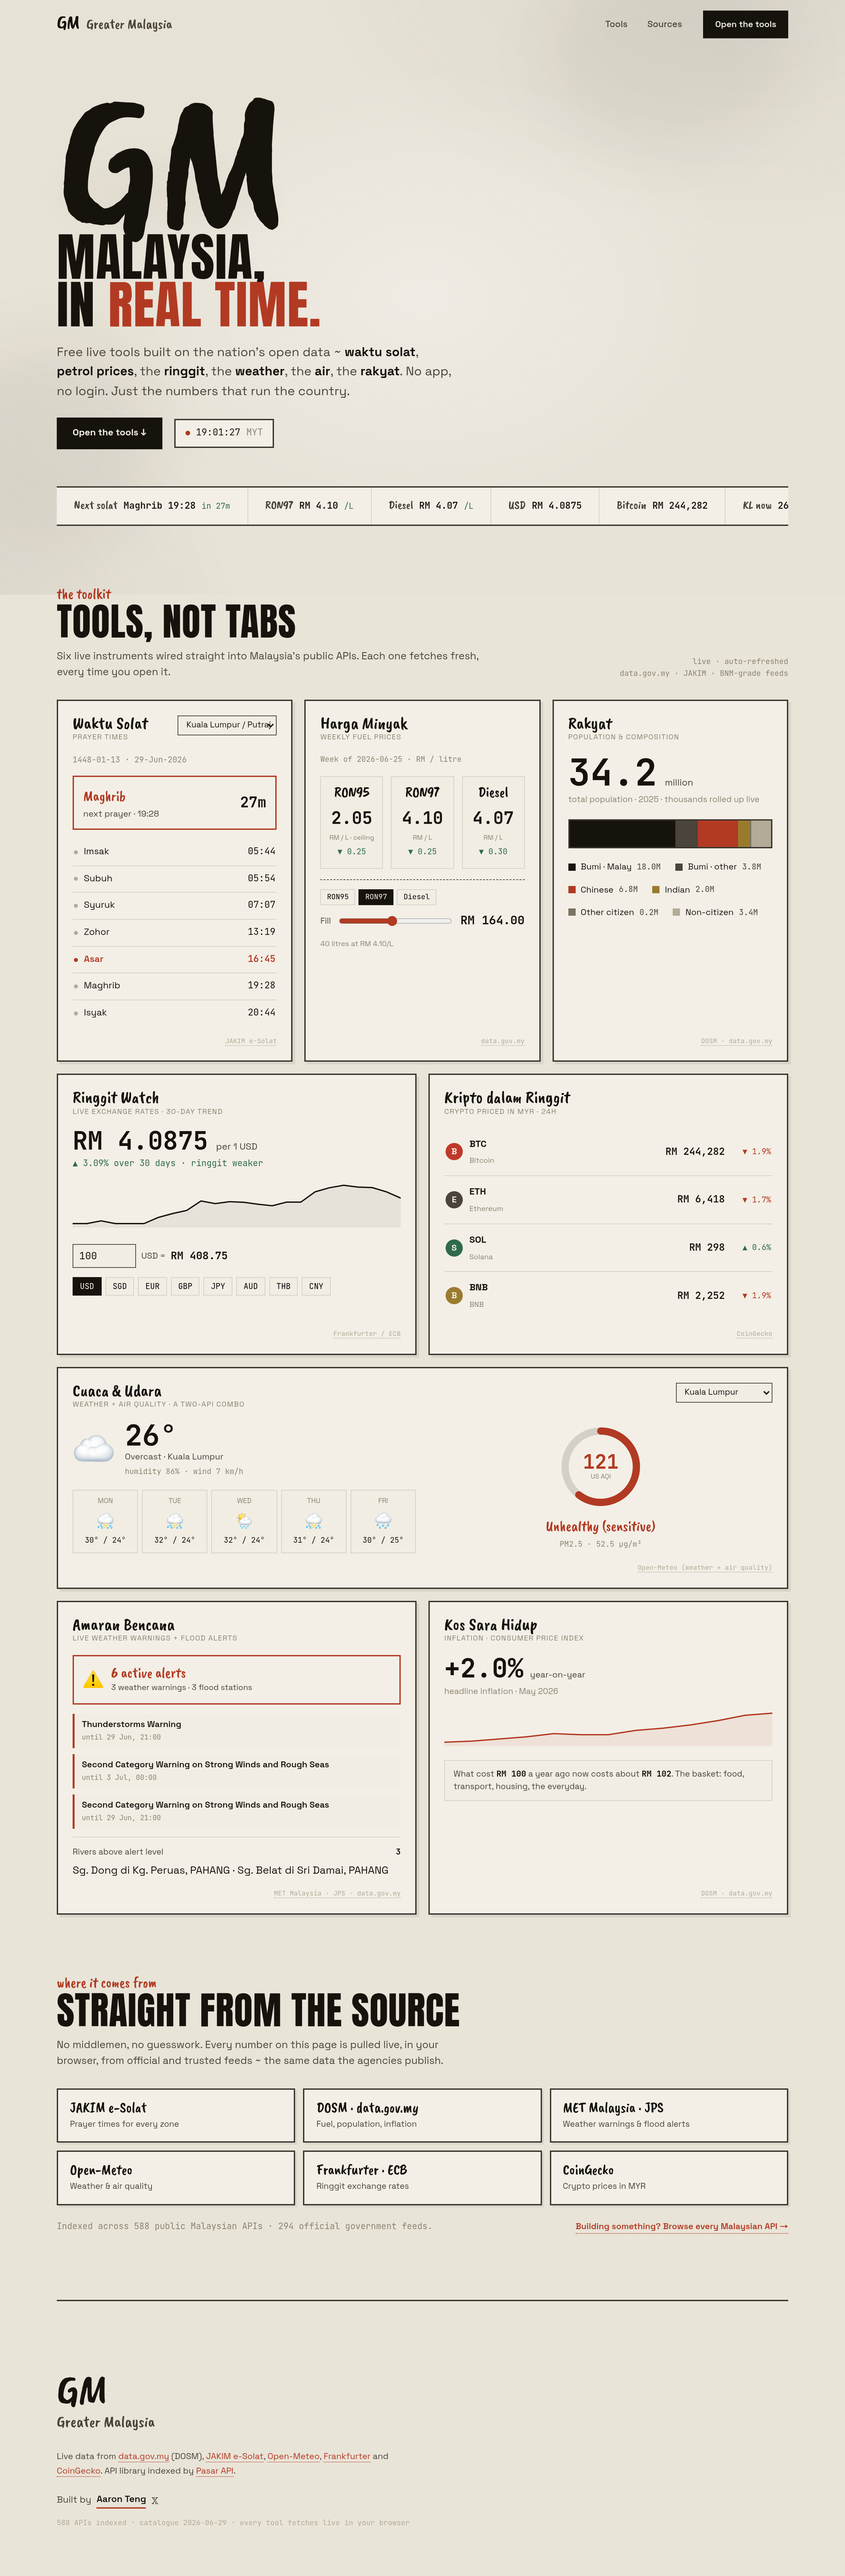
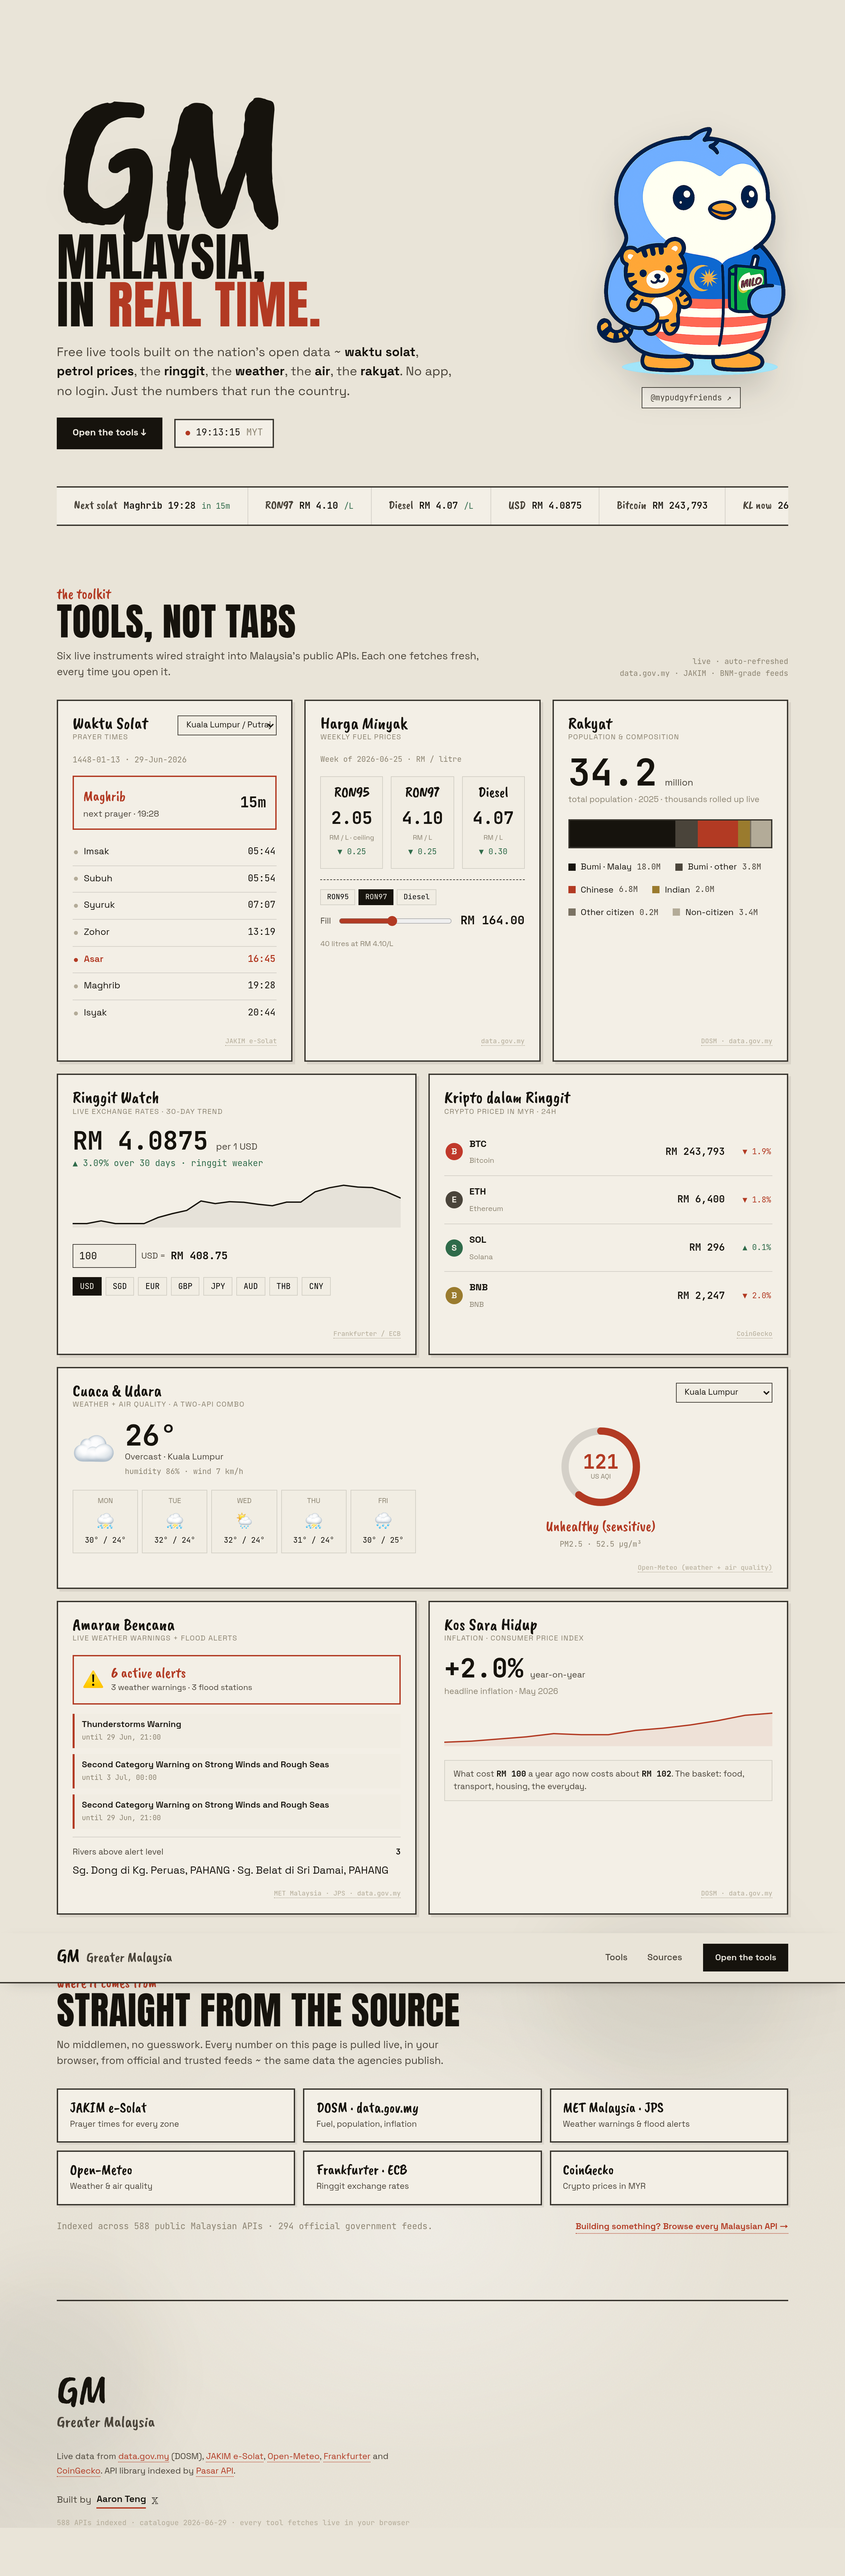
Add Pudgy mascot to hero, linked to Instagram
- Two-column hero: text left, transparent penguin mascot right (fills the empty space)
- Mascot links to instagram.com/mypudgyfriends with a hover badge + gentle float
- Background cut out cleanly (edge flood-fill + ground-shadow removal)
- Responsive: stacks neatly on mobile; refreshed README screenshots

Changed region(s): [[0.7188, 0.0, 0.9375, 0.1558], [0.7188, 0.7479, 0.9375, 0.779], [0.0625, 0.7479, 0.0938, 0.779]]

diff --git a/index.html b/index.html
@@ -54,20 +54,33 @@
     <main id="top">
       <!-- HERO -->
       <section class="hero">
-        <div class="hero-mark">GM</div>
-        <h1 class="hero-title">Malaysia,<br />in <span class="seal">real time.</span></h1>
-        <p class="hero-sub">
-          Free live tools built on the nation's open data ~ <b>waktu solat</b>, <b>petrol prices</b>,
-          the <b>ringgit</b>, the <b>weather</b>, the <b>air</b>, the <b>rakyat</b>.
-          No app, no login. Just the numbers that run the country.
-        </p>
-        <div class="hero-row">
-          <a class="hero-cta" href="#tools">Open the tools ↓</a>
-          <div class="hero-clock">
-            <span class="ld"></span>
-            <span id="heroClock">— : — : —</span>
-            <span style="color: var(--ink-faint)">MYT</span>
+        <div class="hero-top">
+          <div class="hero-content">
+            <div class="hero-mark">GM</div>
+            <h1 class="hero-title">Malaysia,<br />in <span class="seal">real time.</span></h1>
+            <p class="hero-sub">
+              Free live tools built on the nation's open data ~ <b>waktu solat</b>, <b>petrol prices</b>,
+              the <b>ringgit</b>, the <b>weather</b>, the <b>air</b>, the <b>rakyat</b>.
+              No app, no login. Just the numbers that run the country.
+            </p>
+            <div class="hero-row">
+              <a class="hero-cta" href="#tools">Open the tools ↓</a>
+              <div class="hero-clock">
+                <span class="ld"></span>
+                <span id="heroClock">— : — : —</span>
+                <span style="color: var(--ink-faint)">MYT</span>
+              </div>
+            </div>
           </div>
+
+          <a class="hero-pengu" href="https://www.instagram.com/mypudgyfriends" target="_blank" rel="noopener"
+             aria-label="Follow @mypudgyfriends on Instagram">
+            <span class="pengu-float">
+              <img src="assets/penguin.png" width="687" height="896"
+                   alt="Greater Malaysia's mascot ~ a Pudgy penguin holding a tiger, wearing the Jalur Gemilang, with a Milo" />
+            </span>
+            <span class="pengu-badge">@mypudgyfriends ↗</span>
+          </a>
         </div>
 
         <!-- LIVE TICKER -->

diff --git a/styles.css b/styles.css
@@ -122,6 +122,33 @@ main { max-width: var(--maxw); margin: 0 auto; padding: 0 clamp(16px, 4vw, 36px)
 
 /* ---------- hero ---------- */
 .hero { padding-top: clamp(28px, 5vw, 56px); }
+.hero-top {
+  display: grid;
+  grid-template-columns: minmax(0, 1fr) auto;
+  align-items: center;
+  gap: clamp(16px, 4vw, 56px);
+}
+.hero-content { min-width: 0; }
+
+/* mascot — links to Instagram, floats on the paper */
+.hero-pengu {
+  position: relative; display: flex; flex-direction: column; align-items: center;
+  gap: 14px; text-decoration: none; justify-self: end; padding-bottom: 6px;
+}
+.pengu-float { display: block; animation: floaty 5.5s ease-in-out infinite; will-change: transform; }
+@keyframes floaty { 0%, 100% { transform: translateY(0); } 50% { transform: translateY(-12px); } }
+.hero-pengu img {
+  width: clamp(210px, 23vw, 312px); height: auto; display: block;
+  filter: drop-shadow(0 22px 24px rgba(22, 19, 13, 0.18));
+  transition: transform 0.35s var(--ease);
+}
+.hero-pengu:hover img { transform: scale(1.04) rotate(-1.5deg); }
+.pengu-badge {
+  font-family: var(--mono); font-size: 12px; color: var(--ink-soft);
+  border: 1.5px solid var(--line-ink); padding: 6px 13px; background: var(--paper-card);
+  transition: 0.2s; white-space: nowrap;
+}
+.hero-pengu:hover .pengu-badge { background: var(--ink); color: var(--paper-2); transform: translateY(-1px); }
 .hero-mark {
   font-family: var(--brush); font-size: clamp(120px, 26vw, 300px); line-height: 0.72;
   color: var(--ink); letter-spacing: -8px; margin: 0 0 6px; user-select: none;
@@ -434,6 +461,12 @@ main { max-width: var(--maxw); margin: 0 auto; padding: 0 clamp(16px, 4vw, 36px)
   .tool.col-3 { grid-column: span 4; }
   .tool.col-2 { grid-column: span 2; }
   .tool.col-4 { grid-column: span 4; }
+}
+@media (max-width: 880px) {
+  .hero-top { grid-template-columns: 1fr; gap: 8px; }
+  .hero-pengu { flex-direction: row; justify-self: start; align-items: center; gap: 18px; margin-top: 8px; }
+  .hero-pengu img { width: clamp(140px, 34vw, 200px); }
+  .pengu-float { animation-duration: 6.5s; }
 }
 @media (max-width: 760px) {
   .nav-links { display: none; }
